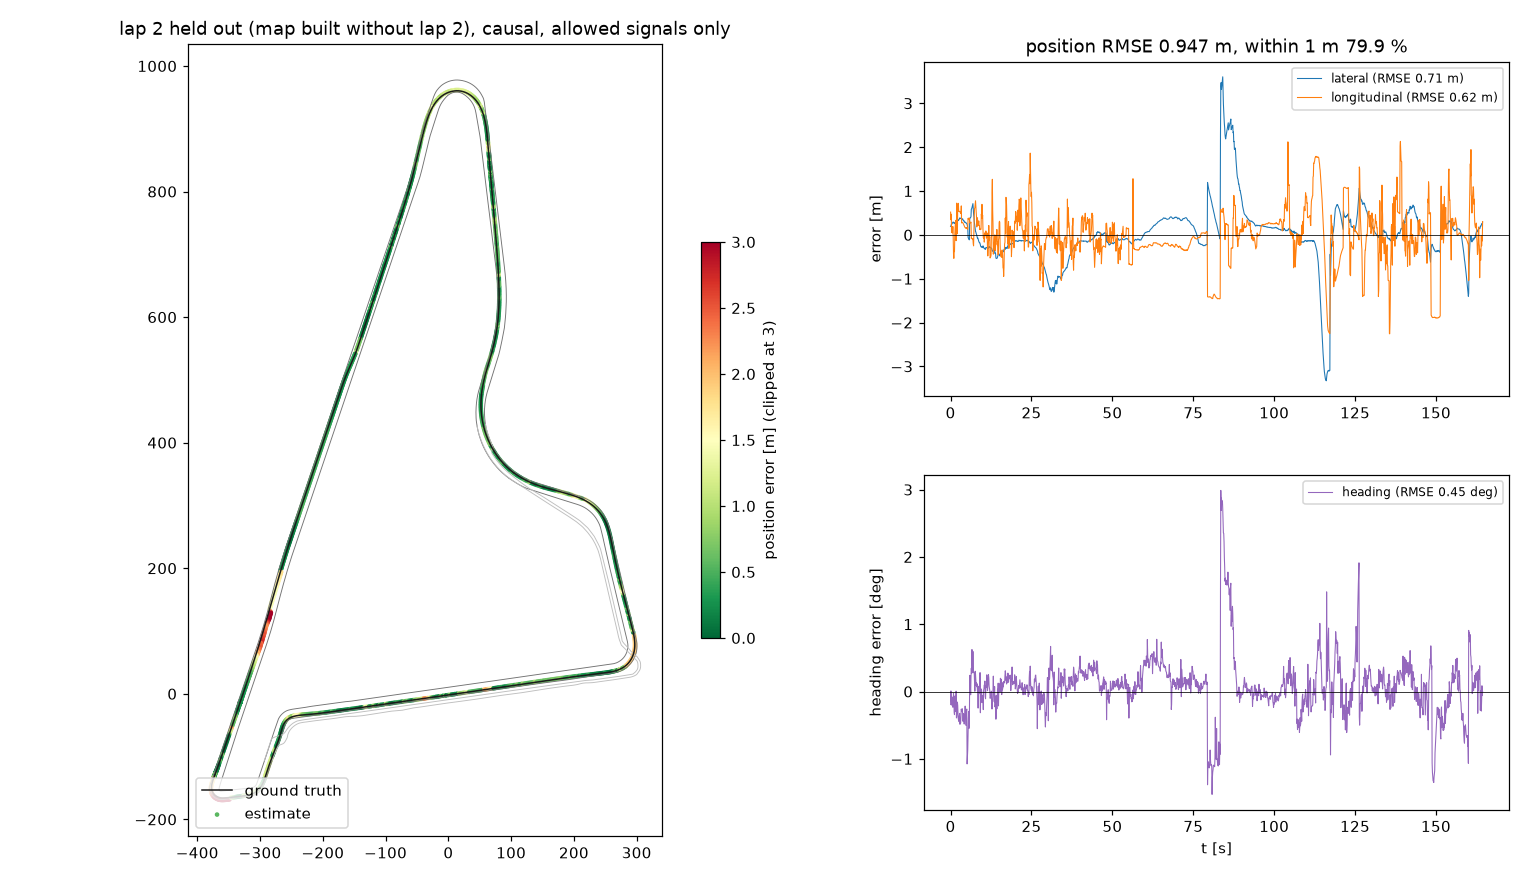
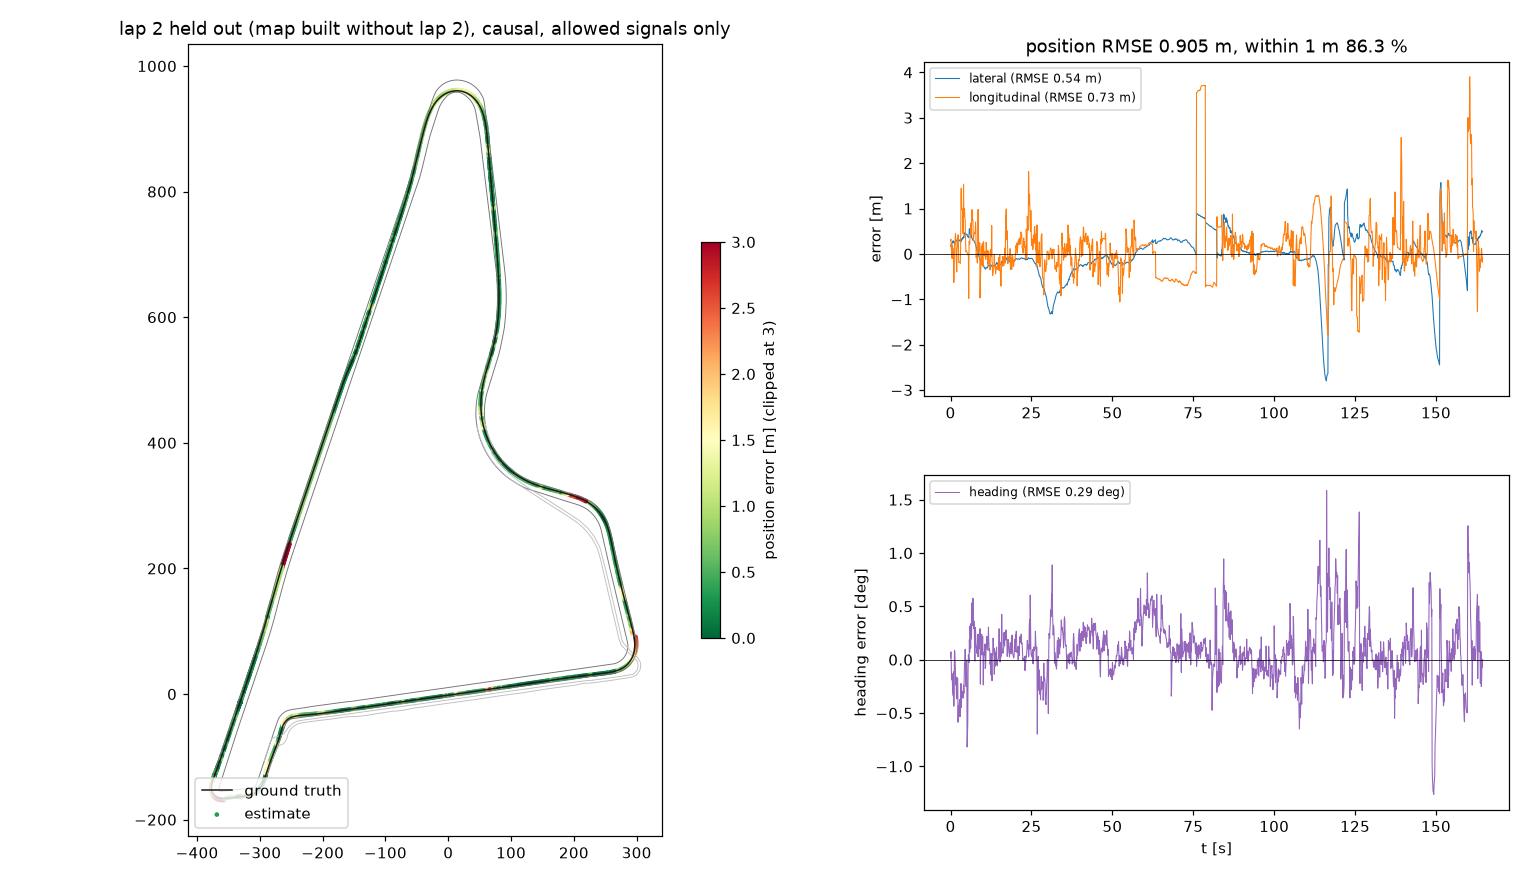
Resolve Devin review (#1): CLAHE map robustness, fallback stress test, strict calibration hold-out; held-out pooled 0.78 m
- vmap/build_map: CLAHE contrast normalisation (--norm, flag stored in the map); run.sh builds it.
  fr map success under altered images 2-4x higher; held-out laps 2/4/6 0.905/0.657/0.659 m, pooled 0.81 -> 0.78 m (EXP-0018)
- run.VisualMapLoc: map-fix dropout / blackout switches for stress tests only (default off); fallback stays at metres (EXP-0017)
- tools/holdout.py + config.ASSETS / CAMLOC_EXCLUDE_LAPS: strict hold-out of all calibrations; leakage ~0.02 m (EXP-0019)
- tools/vmap_check.py --aug query-image augmentations; build_map: both frames of a pair checked against excluded laps
- README robustness section, REPORT.md section 12 (point-by-point response), STATE, worklog, experiment log; 20 tests

Closes #1

diff --git a/camloc/run.py b/camloc/run.py
@@ -102,13 +102,13 @@ class VisualHeading(OdomBounds):
         from .align import rot_adjust
         from .tools.make_masks import load_masks
         self.cv2 = cv2
-        adj = json.loads((C.ROOT / 'camloc' / 'assets' / 'camera_adjust.json').read_text())
+        adj = json.loads((C.ASSETS / 'camera_adjust.json').read_text())
         masks = load_masks(self.VIS_CAMS)
         self.kr = {}
         for c in self.VIS_CAMS:
             Rbc = (cameras[c].T_base_cam @ rot_adjust(*adj.get(c, (0, 0, 0))))[:3, :3]
             self.kr[c] = KeyframeRotation(cameras[c], masks[c][::2, ::2][:364, :753], Rbc)
-        scales = json.loads((C.ROOT / 'camloc' / 'assets' / 'vis_rot_scale.json').read_text())
+        scales = json.loads((C.ASSETS / 'vis_rot_scale.json').read_text())
         self.scale = {c: scales.get(c, 1.0) for c in self.VIS_CAMS}
         self.kf_t = None
         # per-camera OpenCV work runs in threads (OpenCV releases the GIL); results do not depend on threading
@@ -217,7 +217,7 @@ class VisualHeading(OdomBounds):
 class VisualMapLoc(VisualHeading):
     """D5: VisualHeading + absolute pose fixes from the geo-referenced feature map (PnP in fl / fr / r)."""
     MAP_CAMS = ('fr', 'r', 'fl')
-    VMAP = C.ROOT / 'camloc' / 'assets' / 'vmap.npz'
+    VMAP = C.ASSETS / 'vmap.npz'
     SIGMA_XY, SIGMA_YAW = 0.6, np.radians(0.4)       # held-out lap 4: median 0.3-0.66 m, 0.17-0.29 deg
     MIN_INL_SINGLE = 18      # a lone camera fix needs this many PnP inliers (30 -> 18: held-out laps pooled 1.06 -> 0.81 m, EXP-0015)
     AGREE_M = 2.0
@@ -227,13 +227,14 @@ class VisualMapLoc(VisualHeading):
         from .align import rot_adjust
         from .tools.make_masks import load_masks
         from .vmap import MapLocalizer, VisualMap
-        adj = json.loads((C.ROOT / 'camloc' / 'assets' / 'camera_adjust.json').read_text())
+        adj = json.loads((C.ASSETS / 'camera_adjust.json').read_text())
         Tbc = {c: cameras[c].T_base_cam @ rot_adjust(*adj.get(c, (0, 0, 0))) for c in self.MAP_CAMS}
         masks = {c: m[::2, ::2][:364, :753] for c, m in load_masks(self.MAP_CAMS).items()}
         self.loc = MapLocalizer(VisualMap(self.VMAP), cameras, Tbc, masks)
         self.stats.update({'map_fixes': 0, 'map_rejected': 0})
         self.last_fix_t = None
         self.n_reject = 0
+        self.t0_stress = None
 
     @property
     def DECODE_CAMS(self):
@@ -248,6 +249,8 @@ class VisualMapLoc(VisualHeading):
         sd = float(np.sqrt(max(self.ekf.P[0, 0] + self.ekf.P[1, 1], 0)))
         radius = float(np.clip(3 * sd + 25, 40, 150))
         feats = {c: f.result() for c, f in feats.items()}
+        if self._fix_dropped(fs.stamp_ns):
+            cams = []
         res = self.pool.map(lambda c: self._seeded(self.loc.localize, c, gray[c], x, y, yaw, radius, feats[c]), cams)
         fixes = [r for r in res if r is not None and abs(np.angle(np.exp(1j * (r['yaw'] - yaw)))) < np.radians(10)]
         use = []
@@ -280,6 +283,17 @@ class VisualMapLoc(VisualHeading):
                 self.last_fix_t = fs.stamp_ns
         self.stats['map_rejected'] += len(fixes) - len(use)
         return self.ekf.pose
+
+    # STRESS TEST ONLY (defaults off): simulate map-matching failure, e.g. a daylight test against a night map.
+    # FIX_DROP: probability that a frame gets no map fix; FIX_GAP_S / FIX_PERIOD_S: no fixes for GAP s every PERIOD s.
+    FIX_DROP, FIX_GAP_S, FIX_PERIOD_S = 0.0, 0.0, 0.0
+
+    def _fix_dropped(self, t_ns):
+        if self.t0_stress is None:
+            self.t0_stress, self.rng_stress = t_ns, np.random.default_rng(0)
+        if self.FIX_DROP > 0 and self.rng_stress.random() < self.FIX_DROP:
+            return True
+        return self.FIX_PERIOD_S > 0 and ((t_ns - self.t0_stress) / 1e9) % self.FIX_PERIOD_S >= self.FIX_PERIOD_S - self.FIX_GAP_S
 
     NIS_GATE = 13.8          # chi2(2 dof) 99.9 %
     REJECT_RESET = 15        # consecutive rejected fixes -> trust the map again

diff --git a/camloc/tools/vmap_check.py b/camloc/tools/vmap_check.py
@@ -1,7 +1,11 @@
 """TRAINING DIAGNOSTIC: map-based PnP localisation accuracy vs GT on a time window, querying the map with the
 GT pose perturbed by a given error (to mimic the filter's prior).
 
-    python -m camloc.tools.vmap_check cache/vmap_no_lap4.npz 602.8 701.7 [prior_err_m]
+    python -m camloc.tools.vmap_check cache/vmap_no_lap4.npz 602.8 701.7 [prior_err_m [step]] [--aug gamma0.5]
+
+--aug alters the QUERY images only (the map stays as built) to probe robustness to lighting / speed changes:
+gamma0.5 (brighter), gamma2 (darker), contrast0.5, blur9 (9 px horizontal motion blur, half resolution),
+noise10 (Gaussian, sigma 10 grey levels), day (gamma 0.4 + contrast 0.6: washed-out bright image).
 """
 import json
 import sys
@@ -19,10 +23,28 @@ from .make_masks import load_masks
 CAMS = ('fl', 'fr', 'r')
 
 
-def main(path, t0, t1, prior=10.0, step=3):
+def augment(g, aug):
+    f = g.astype(np.float32)
+    if aug.startswith('gamma'):
+        f = 255 * (f / 255) ** float(aug[5:])
+    elif aug.startswith('contrast'):
+        f = 128 + float(aug[8:]) * (f - 128)
+    elif aug.startswith('blur'):
+        k = int(aug[4:])
+        f = cv2.filter2D(f, -1, np.ones((1, k), np.float32) / k)
+    elif aug.startswith('noise'):
+        f = f + np.random.default_rng(int(f.sum()) % 2**32).normal(0, float(aug[5:]), f.shape)
+    elif aug == 'day':
+        f = 128 + 0.6 * (255 * (f / 255) ** 0.4 - 128)
+    elif aug != 'none':
+        raise SystemExit(f'unknown --aug {aug}')
+    return np.clip(f, 0, 255).astype(np.uint8)
+
+
+def main(path, t0, t1, prior=10.0, step=3, aug='none'):
     cams, _ = load_static()
     gt = load_gt()
-    adj = json.loads((C.ROOT / 'camloc' / 'assets' / 'camera_adjust.json').read_text())
+    adj = json.loads((C.ASSETS / 'camera_adjust.json').read_text())
     Tbc = {c: cams[c].T_base_cam @ rot_adjust(*adj.get(c, (0, 0, 0))) for c in CAMS}
     loc = MapLocalizer(VisualMap(path), cams, Tbc, {c: m[::2, ::2][:364, :753] for c, m in load_masks(CAMS).items()})
     rng = np.random.default_rng(0)
@@ -40,7 +62,7 @@ def main(path, t0, t1, prior=10.0, step=3):
         for c in CAMS:
             if c not in ev.images:
                 continue
-            g = cv2.imdecode(np.frombuffer(ev.images[c], np.uint8), cv2.IMREAD_REDUCED_GRAYSCALE_2)
+            g = augment(cv2.imdecode(np.frombuffer(ev.images[c], np.uint8), cv2.IMREAD_REDUCED_GRAYSCALE_2), aug)
             r = loc.localize(c, g, gx + dx, gy + dy, gyaw)
             if r is None:
                 rows.append((CAMS.index(c), np.nan, np.nan, np.nan, 0, np.nan))
@@ -61,4 +83,10 @@ def main(path, t0, t1, prior=10.0, step=3):
 
 
 if __name__ == '__main__':
-    main(sys.argv[1], float(sys.argv[2]), float(sys.argv[3]), *(float(x) for x in sys.argv[4:]))
+    argv = sys.argv[1:]
+    aug = 'none'
+    if '--aug' in argv:
+        i = argv.index('--aug')
+        aug = argv[i + 1]
+        del argv[i:i + 2]
+    main(argv[0], float(argv[2 - 1]), float(argv[2]), *(float(x) for x in argv[3:]), aug=aug)

diff --git a/camloc/tools/build_map.py b/camloc/tools/build_map.py
@@ -60,11 +60,12 @@ def triangulate(c, T0, T1, uv0, uv1):
 def main(argv=None):
     ap = argparse.ArgumentParser()
     ap.add_argument('--exclude-laps', type=int, nargs='*', default=[])
-    ap.add_argument('--out', default=str(C.ROOT / 'camloc' / 'assets' / 'vmap.npz'))
+    ap.add_argument('--norm', action='store_true', help='CLAHE-normalise images (stored in the map; EXP-0018)')
+    ap.add_argument('--out', default=str(C.ASSETS / 'vmap.npz'))
     a = ap.parse_args(argv)
     cams, _ = load_static()
     g6 = load_gt6()
-    adj = json.loads((C.ROOT / 'camloc' / 'assets' / 'camera_adjust.json').read_text())
+    adj = json.loads((C.ASSETS / 'camera_adjust.json').read_text())
     Tbc = {c: cams[c].T_base_cam @ rot_adjust(*adj.get(c, (0, 0, 0))) for c in MAP_CAMS}
     masks = {c: m[::2, ::2][:364, :753].astype(np.uint8) * 255 for c, m in load_masks(MAP_CAMS).items()}
     laps = lap_windows(g6)
@@ -85,7 +86,7 @@ def main(argv=None):
         if len(buf) < PAIR_GAP + 1 or k % STEP:
             continue
         e0, e1 = buf[0], buf[-1]
-        if any(t0 <= e0.stamp_ns <= t1 for t0, t1 in excl):
+        if any(t0 <= e.stamp_ns <= t1 for t0, t1 in excl for e in (e0, e1)):   # neither view in an excluded lap
             continue
         for c in MAP_CAMS:
             if c not in e0.images or c not in e1.images:
@@ -96,8 +97,8 @@ def main(argv=None):
                 continue
             g0 = cv2.imdecode(np.frombuffer(e0.images[c], np.uint8), cv2.IMREAD_REDUCED_GRAYSCALE_2)
             g1 = cv2.imdecode(np.frombuffer(e1.images[c], np.uint8), cv2.IMREAD_REDUCED_GRAYSCALE_2)
-            uv0, d0 = detect(det, g0, masks[c])
-            uv1, d1 = detect(det, g1, masks[c])
+            uv0, d0 = detect(det, g0, masks[c], a.norm)
+            uv1, d1 = detect(det, g1, masks[c], a.norm)
             if len(uv0) < 30 or len(uv1) < 30:
                 continue
             mm = bf.match(d0, d1)
@@ -116,7 +117,7 @@ def main(argv=None):
             kf_ptr.append(kf_ptr[-1] + int(keep.sum()))
     np.savez_compressed(a.out, kf_cam=np.array(kf_cam, np.int8), kf_xy=np.array(kf_xy), kf_yaw=np.array(kf_yaw),
                         kf_ptr=np.array(kf_ptr), P=np.vstack(Ps), D=np.vstack(Ds), cams=np.array(MAP_CAMS),
-                        excluded_laps=np.array(a.exclude_laps))
+                        excluded_laps=np.array(a.exclude_laps), norm=np.array(a.norm))
     n = np.bincount(kf_cam, minlength=len(MAP_CAMS))
     print(f'keyframes {len(kf_cam)} {dict(zip(MAP_CAMS, n.tolist()))}, points {kf_ptr[-1]} '
           f'({kf_ptr[-1] / max(len(kf_cam), 1):.0f}/keyframe) -> {a.out}')

diff --git a/camloc/tools/vis_heading_check.py b/camloc/tools/vis_heading_check.py
@@ -13,6 +13,7 @@ from .. import config as C
 from ..align import rot_adjust
 from ..data import FrameSet, Replay, StateEvent, load_static
 from ..groundtruth import load_gt6
+from .holdout import excluded
 from ..vision_rot import KeyframeRotation
 from .make_masks import load_masks
 
@@ -33,7 +34,7 @@ def fit_scales(a):
             x, y = x[keep], y[keep]
         out[c] = float(k)
         print(f'{c}: rotation scale vis/gt {k:.4f}')
-    (C.ROOT / 'camloc' / 'assets' / 'vis_rot_scale.json').write_text(json.dumps(
+    (C.ASSETS / 'vis_rot_scale.json').write_text(json.dumps(
         {'_doc': 'visual/GT rotation scale per camera (training fit, tools/vis_heading_check.py); divide by it', **out}, indent=1))
 
 
@@ -41,7 +42,7 @@ def main(start=0.0, dur=None):
     cams, _ = load_static()
     g = load_gt6()
     yu = np.unwrap(g['yaw'])
-    adj = json.loads((C.ROOT / 'camloc' / 'assets' / 'camera_adjust.json').read_text())
+    adj = json.loads((C.ASSETS / 'camera_adjust.json').read_text())
     masks = load_masks(CAMS)
     kr = {c: KeyframeRotation(cams[c], masks[c][::2, ::2][:364, :753],
                               (cams[c].T_base_cam @ rot_adjust(*adj.get(c, (0, 0, 0))))[:3, :3]) for c in CAMS}
@@ -49,6 +50,9 @@ def main(start=0.0, dur=None):
     for ev in Replay(state='allowed', start_s=start, duration_s=dur):
         if isinstance(ev, StateEvent):
             v = 0.3052 * max(0.5 * (ev.fields['omega_w_fl'] + ev.fields['omega_w_fr']), 0)
+            continue
+        if excluded(ev.stamp_ns):                     # CAMLOC_EXCLUDE_LAPS hold-out: restart after the gap
+            kf_t = None
             continue
         gray = {c: cv2.imdecode(np.frombuffer(ev.images[c], np.uint8), cv2.IMREAD_REDUCED_GRAYSCALE_2) for c in CAMS if c in ev.images}
         if kf_t is None or (ev.stamp_ns - kf_t) / 1e9 > 1.5:

diff --git a/camloc/vmap.py b/camloc/vmap.py
@@ -18,8 +18,14 @@ def orb():
     return cv2.ORB_create(**ORB_PARAMS)
 
 
-def detect(det, gray, mask):
-    kp, des = det.detectAndCompute(gray, mask)
+def normalize(gray):
+    """Local contrast normalisation (CLAHE): keeps ORB's absolute FAST threshold meaningful under lighting /
+    contrast changes (EXP-0018). Applied identically at map build and query time (map flag `norm`)."""
+    return cv2.createCLAHE(clipLimit=2.0, tileGridSize=(8, 8)).apply(gray)
+
+
+def detect(det, gray, mask, norm=False):
+    kp, des = det.detectAndCompute(normalize(gray) if norm else gray, mask)
     if des is None:
         return np.zeros((0, 2), np.float32), np.zeros((0, 32), np.uint8)
     return np.array([k.pt for k in kp], np.float32), des
@@ -35,6 +41,7 @@ class VisualMap:
         self.P = z['P']                    # (N, 3) map points
         self.D = z['D']                    # (N, 32) ORB descriptors
         self.cams = [str(c) for c in z['cams']]
+        self.norm = bool(z['norm']) if 'norm' in z.files else False
         self.tree = cKDTree(self.kf_xy)
 
     def candidates(self, cam, x, y, yaw, radius=40.0, max_dyaw=np.radians(35), max_kf=12):
@@ -65,7 +72,7 @@ class MapLocalizer:
 
     def features(self, cam, gray_half):
         """ORB features (pose-independent, so they can be computed while the filter is still updating)."""
-        return detect(self.det[cam], gray_half, self.masks[cam])
+        return detect(self.det[cam], gray_half, self.masks[cam], self.vmap.norm)
 
     def localize(self, cam, gray_half, x, y, yaw, radius=40.0, feats=None):
         P, D = self.vmap.candidates(cam, x, y, yaw, radius)

diff --git a/tests/test_smoke.py b/tests/test_smoke.py
@@ -61,7 +61,7 @@ def test_inference_modules_do_not_import_groundtruth():
     pkg = Path(__file__).resolve().parent.parent / 'camloc'
     eval_only = {'groundtruth.py', 'evaluate.py',                                     # evaluation only
                  'calibrate_odometry.py', 'calibrate_cameras.py', 'overlay_borders.py',   # training-time only
-                 'fit_road_attitude.py', 'vo_rotation_check.py', 'lateral_sensitivity.py', 'vis_heading_check.py', 'build_map.py', 'vmap_check.py', 'plot_traj.py'}
+                 'fit_road_attitude.py', 'vo_rotation_check.py', 'lateral_sensitivity.py', 'vis_heading_check.py', 'build_map.py', 'vmap_check.py', 'plot_traj.py', 'holdout.py'}
     for f in pkg.rglob('*.py'):
         if f.name in eval_only:
             continue
@@ -270,3 +270,15 @@ def test_run_parameter_overrides(tmp_path):
     from camloc.run import run
     with pytest.raises(SystemExit):
         run(C.DEFAULT_MCAP, tmp_path / 'x.csv', 'hold', duration_s=0.5, overrides={'NO_SUCH': '1'})
+
+
+def test_holdout_is_a_noop_without_excluded_laps_and_augment_keeps_shape():
+    from camloc.tools import holdout
+    from camloc.tools.vmap_check import augment
+    if not C.EXCLUDE_LAPS:
+        assert holdout.excluded(123) is False and not holdout.excluded(np.arange(5)).any()
+    g = (np.arange(64 * 48) % 256).astype(np.uint8).reshape(48, 64)
+    for a in ('none', 'gamma0.5', 'gamma2', 'contrast0.5', 'blur9', 'noise10', 'day'):
+        out = augment(g, a)
+        assert out.shape == g.shape and out.dtype == np.uint8
+    assert augment(g, 'gamma0.5').mean() > g.mean() > augment(g, 'gamma2').mean()

diff --git a/camloc/tools/holdout.py b/camloc/tools/holdout.py
@@ -1,0 +1,38 @@
+"""TRAINING-TIME: strict hold-out support. With CAMLOC_EXCLUDE_LAPS=4 the calibration tools ignore every GT /
+sensor sample inside lap 4, and with CAMLOC_ASSETS=<dir> they write (and the localiser reads) a separate asset set:
+
+    cp -r camloc/assets cache/assets_nolap4
+    export CAMLOC_ASSETS=cache/assets_nolap4 CAMLOC_EXCLUDE_LAPS=4
+    python -m camloc.tools.calibrate_cameras && python -m camloc.tools.vis_heading_check \
+      && python -m camloc.tools.calibrate_odometry && python -m camloc.tools.build_map --exclude-laps 4 --out $CAMLOC_ASSETS/vmap.npz
+    python -m camloc.run --estimator vismap --vmap $CAMLOC_ASSETS/vmap.npz --out cache/sub_strict4.csv
+"""
+from functools import lru_cache
+
+import numpy as np
+
+from .. import config as C
+
+
+@lru_cache(maxsize=1)
+def windows():
+    """(t0, t1) ns of the excluded laps."""
+    if not C.EXCLUDE_LAPS:
+        return ()
+    from ..data import load_static
+    from ..evaluate import gt_context, lap_windows
+    from ..groundtruth import load_gt
+    from ..track import TrackModel
+    lw = lap_windows(gt_context(load_gt(), TrackModel(load_static(cams=())[1])))
+    w = tuple((t0, t1) for n, t0, t1 in lw if n in C.EXCLUDE_LAPS)
+    print(f'hold-out: excluding laps {C.EXCLUDE_LAPS} ({sum((b - a) for a, b in w) / 1e9:.0f} s)')
+    return w
+
+
+def excluded(t_ns):
+    """Boolean (array or scalar): t inside an excluded lap."""
+    t = np.asarray(t_ns)
+    m = np.zeros(t.shape, bool)
+    for a, b in windows():
+        m |= (t >= a) & (t <= b)
+    return m if m.shape else bool(m)

diff --git a/camloc/tools/calibrate_cameras.py b/camloc/tools/calibrate_cameras.py
@@ -20,13 +20,14 @@ from ..align import ground_roi, rot_adjust
 from ..data import FrameSet, Replay, load_static
 from ..geometry import T_map_base, project
 from ..groundtruth import load_gt6
+from .holdout import excluded
 from ..lines import SCALE
 from ..measure import near_border_points, tophat, vertical_residuals
 from ..road import Road3D
 from .make_masks import load_masks
 from ..data import load_bounds3d as bounds3d
 
-OUT = C.ROOT / 'camloc' / 'assets' / 'camera_adjust.json'
+OUT = C.ASSETS / 'camera_adjust.json'
 CAMS = ('cl', 'cr', 'rl', 'rr', 'fr', 'fl')
 HUBER = 2.0          # px
 PRIOR_DEG = 1.0      # Tikhonov prior on each correction angle (README: calibrated yaw/pitch good to ~1 deg)
@@ -47,7 +48,7 @@ def collect(n_frames, cameras, masks, rois, border, g6):
         if ts > t_hi:
             break
         i = np.searchsorted(g6['t'], ev.stamp_ns)
-        if g6['pos_acc'][i] > 0.5:
+        if g6['pos_acc'][i] > 0.5 or excluded(ev.stamp_ns):     # CAMLOC_EXCLUDE_LAPS hold-out
             continue
         T = T_map_base(*[g6[k][i] for k in ('x', 'y', 'z', 'roll', 'pitch', 'yaw')])
         fr = {}

diff --git a/camloc/config.py b/camloc/config.py
@@ -5,6 +5,11 @@ from pathlib import Path
 ROOT = Path(__file__).resolve().parent.parent
 DEFAULT_MCAP = Path(os.environ.get('CAMLOC_MCAP', ROOT / 'data' / 'c0_2026-10-13_22-53-42_camloc' / 'c0_2026-10-13_22-53-42_camloc_0.mcap'))
 CACHE = ROOT / 'cache'
+# Calibration assets (odometry, camera rotations, rotation scales, masks, visual map). Overridable so a strict
+# hold-out can use assets refitted without the scored lap (camloc/tools/holdout.py).
+ASSETS = Path(os.environ.get('CAMLOC_ASSETS', ROOT / 'camloc' / 'assets'))
+# TRAINING tools only: laps (as numbered by camloc.evaluate.lap_windows) whose GT must not be used, e.g. "4"
+EXCLUDE_LAPS = [int(x) for x in os.environ.get('CAMLOC_EXCLUDE_LAPS', '').split(',') if x.strip()]
 
 CAMS = ('fl', 'fr', 'cl', 'cr', 'r', 'rl', 'rr')
 IMG_TOPIC = '/constructor0/sensor/camera_{}/compressed_image'

diff --git a/camloc/tools/calibrate_odometry.py b/camloc/tools/calibrate_odometry.py
@@ -13,6 +13,7 @@ import numpy as np
 
 from .. import config as C
 from ..groundtruth import load_gt
+from .holdout import excluded
 from ..odometry import PARAMS, batch, integrate, wheel_rate
 from ..track import wrap
 
@@ -73,7 +74,7 @@ def main():
     k = np.ones(11) / 11
     v_gt, wz_gt = np.convolve(v_gt, k, 'same'), np.convolve(wz_gt, k, 'same')
     acc = np.interp(t, gt['t'], gt['pos_acc'])
-    good = (acc <= 1.0) & (F['valid_wheelsspeeds_b'] > 0)
+    good = (acc <= 1.0) & (F['valid_wheelsspeeds_b'] > 0) & ~excluded(t)     # CAMLOC_EXCLUDE_LAPS hold-out
     moving = good & (v_gt > 5)
 
     report = {'speed': {}, 'yaw': {}, 'drift_10s': {}}

diff --git a/camloc/odometry.py b/camloc/odometry.py
@@ -14,7 +14,7 @@ import numpy as np
 
 from . import config as C
 
-PARAMS = C.ROOT / 'camloc' / 'assets' / 'odometry.json'
+PARAMS = C.ASSETS / 'odometry.json'
 
 
 def wheel_rate(f, mode):

diff --git a/camloc/tools/make_masks.py b/camloc/tools/make_masks.py
@@ -15,7 +15,7 @@ import numpy as np
 from .. import config as C
 from ..data import FrameSet, Replay
 
-ASSETS = C.ROOT / 'camloc' / 'assets'
+ASSETS = C.ASSETS
 W, H = 1506, 728
 
 
